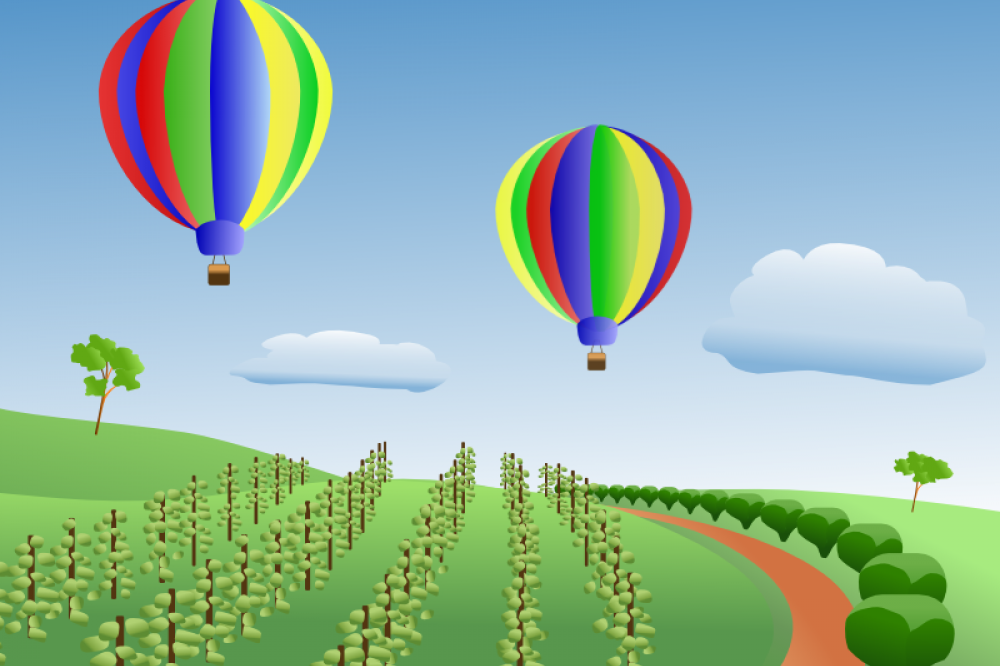
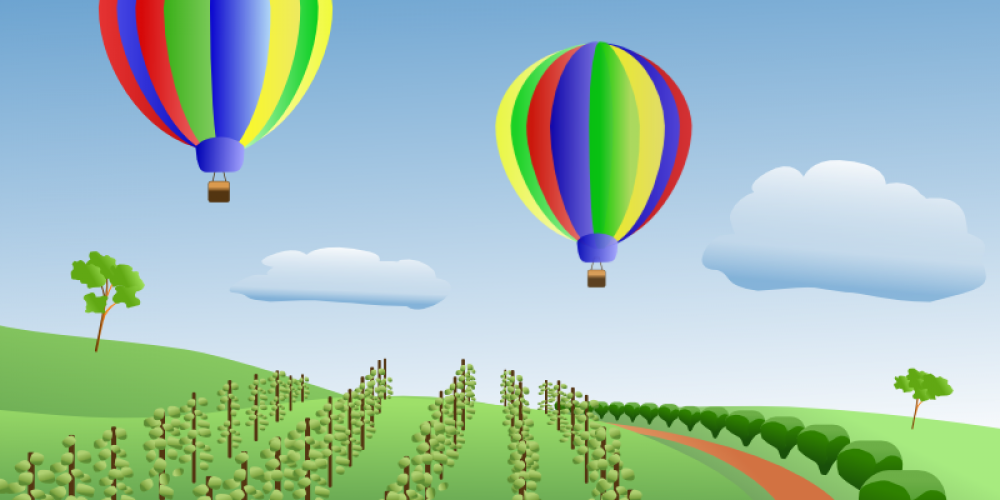
Course Page Node Header changes

diff --git a/sites/all/themes/hedgecomm/css/global.css b/sites/all/themes/hedgecomm/css/global.css
@@ -1182,7 +1182,7 @@ body.front #zone-prefooter-wrapper {
 /** Header **/
 #block-hc-blocks-course-header {
   width: 1000px;
-  height: 333px;
+  height: 500px;
   position: relative;
   margin-bottom: 32px;
 }
@@ -1219,9 +1219,9 @@ body.front #zone-prefooter-wrapper {
 }
 
 .block-header-course .text .description {
-  font-size: 1.385em;
+  font-size: 1.538em;
   margin: 32px;
-  margin-top: 16px;
+  margin-top: 32px;
 }
 
 .block-header-course .text .key-information {
